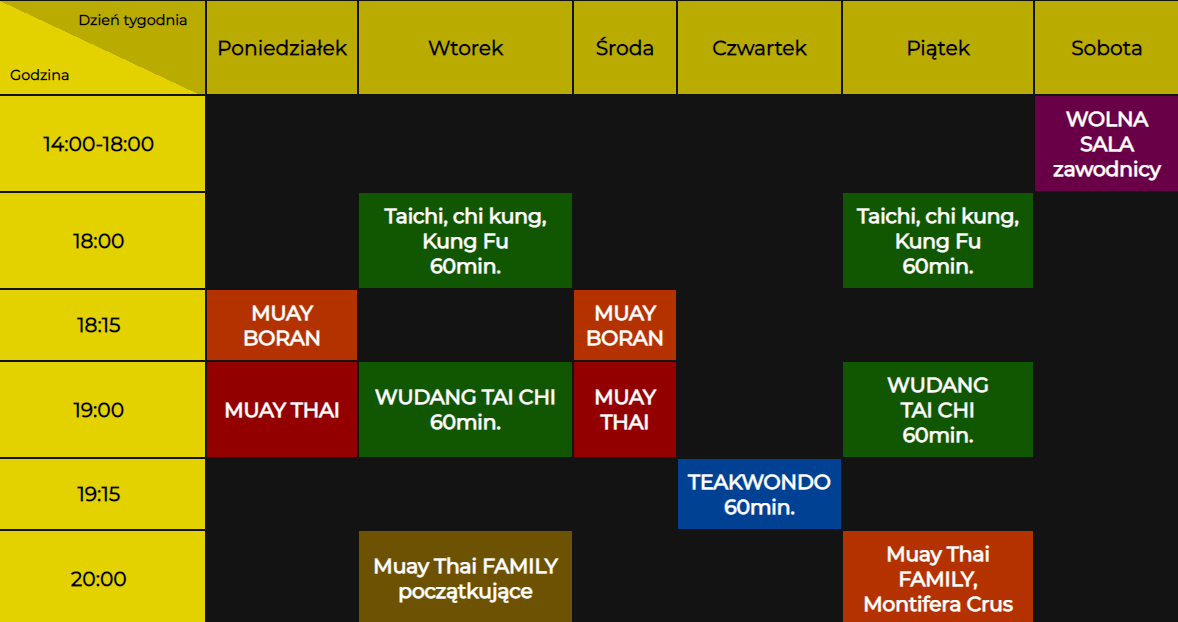
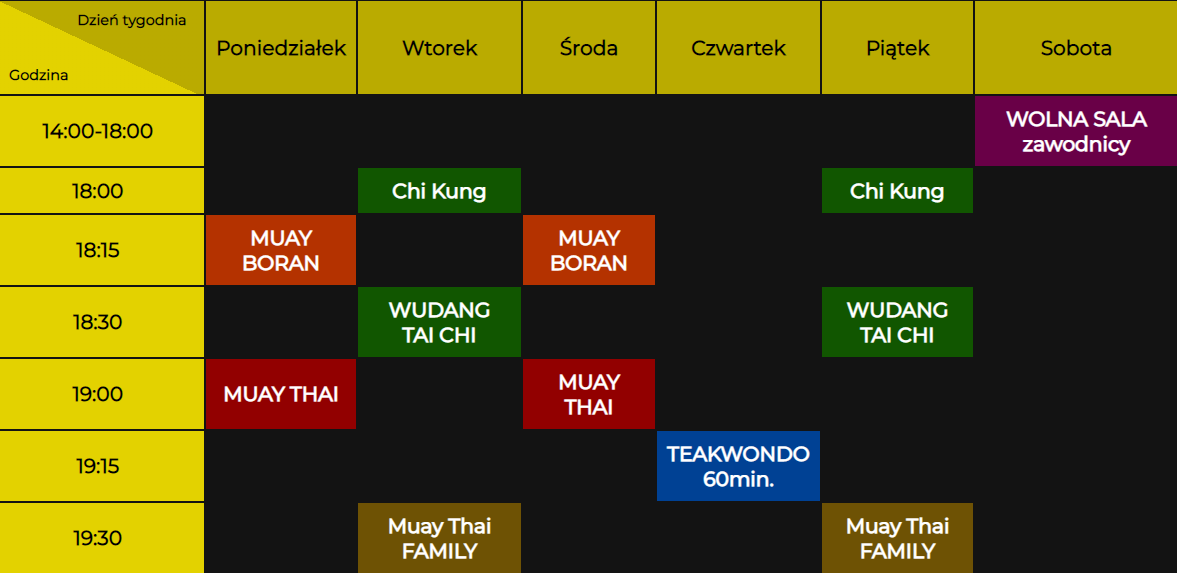
zaktualizowany grafik

diff --git a/schedule.html b/schedule.html
@@ -91,10 +91,10 @@
 					<tr>
 						<td><div class="inner-hours">18:00</div></td>
 						<td></td>
-						<td class="tai-chi">Taichi, chi&nbsp;kung, Kung&nbsp;Fu<br>60min.</td>
+						<td class="tai-chi">Chi&nbsp;Kung</td>
 						<td></td>
 						<td></td>
-						<td class="tai-chi">Taichi, chi&nbsp;kung, Kung&nbsp;Fu<br>60min.</td>
+						<td class="tai-chi">Chi&nbsp;Kung</td>
 						<td></td>
 					</tr>
 					<tr>
@@ -107,12 +107,21 @@
 						<td></td>
 					</tr>
 					<tr>
+						<td><div class="inner-hours">18:30</div></td>
+						<td></td>
+						<td class="tai-chi">WUDANG TAI&nbsp;CHI</td>
+						<td></td>
+						<td></td>
+						<td class="tai-chi">WUDANG TAI&nbsp;CHI</td>
+						<td></td>
+					</tr>
+					<tr>
 						<td><div class="inner-hours">19:00</div></td>
 						<td class="muay-thai">MUAY THAI</td>
-						<td class="tai-chi">WUDANG TAI&nbsp;CHI<br>60min.</td>
+						<td></td>
 						<td class="muay-thai">MUAY THAI</td>
 						<td></td>
-						<td class="tai-chi">WUDANG TAI&nbsp;CHI<br>60min.</td>
+						<td></td>
 						<td></td>
 					</tr>
 					<tr>
@@ -124,12 +133,12 @@
 						<td></td>
 					</tr>
 					<tr>
-						<td><div class="inner-hours">20:00</div></td>
+						<td><div class="inner-hours">19:30</div></td>
 						<td></td>
-						<td class="muay-thai-family">Muay&nbsp;Thai FAMILY początkujące</td>
+						<td class="muay-thai-family">Muay&nbsp;Thai FAMILY</td>
 						<td></td>
 						<td></td>
-						<td class="montifera">Muay&nbsp;Thai FAMILY, Montifera Crus</td>
+						<td class="muay-thai-family">Muay&nbsp;Thai FAMILY</td>
 						<td></td>
 					</tr>
 				</table>
